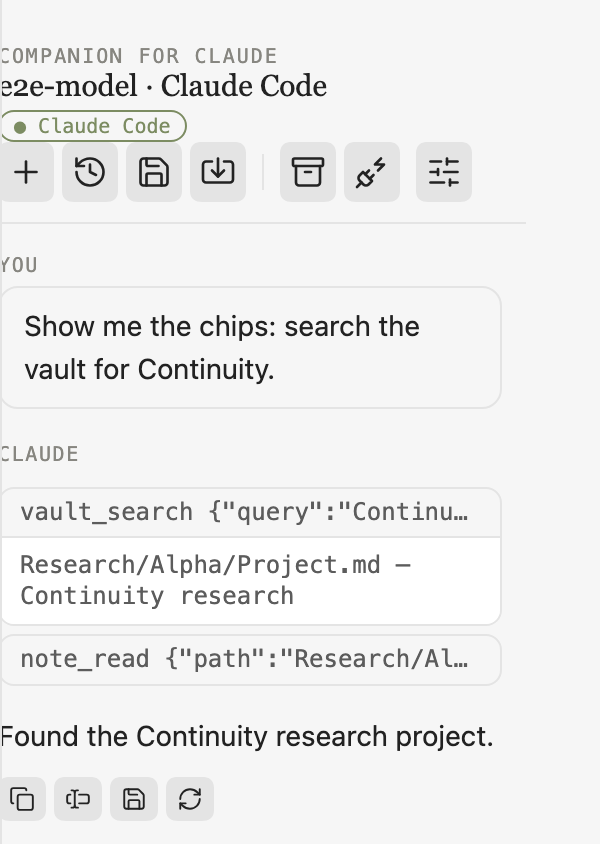
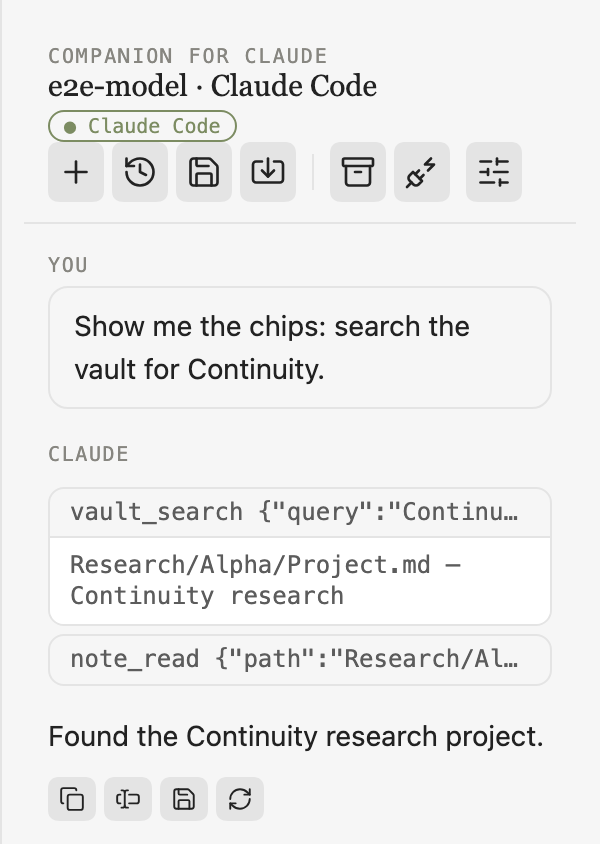
docs: tool-chips capture keeps the pane's left edge

diff --git a/obsidian-plugin/e2e/readme-captures.spec.ts b/obsidian-plugin/e2e/readme-captures.spec.ts
@@ -145,6 +145,17 @@ test.describe("README captures", () => {
       await chips.first().locator("summary").click();
       // Crop to the transcript only: from top of .cc-chat-root down to bottom
       // of last assistant bubble, excluding the composer.
+      // Hide the composer so nothing overflows and causes horizontal scroll offset.
+      await harness.page.addStyleTag({ content: ".cc-chat-root .cc-composer, .cc-chat-root textarea { display: none !important; }" });
+      // Reset every horizontal scroll: a wide row (e.g. the usage bar) can leave
+      // an ancestor mid-horizontal-scroll; pin every scrollable element back to
+      // its left edge before measuring bounding boxes.
+      await harness.page.evaluate(() => {
+        for (const el of Array.from(document.querySelectorAll<HTMLElement>("*"))) {
+          if (el.scrollLeft) el.scrollLeft = 0;
+        }
+        window.scrollTo(0, 0);
+      });
       const rootBox = await root.boundingBox();
       const bubble = root.locator(".cc-msg.cc-assistant").last();
       const bubbleBox = await bubble.boundingBox();
